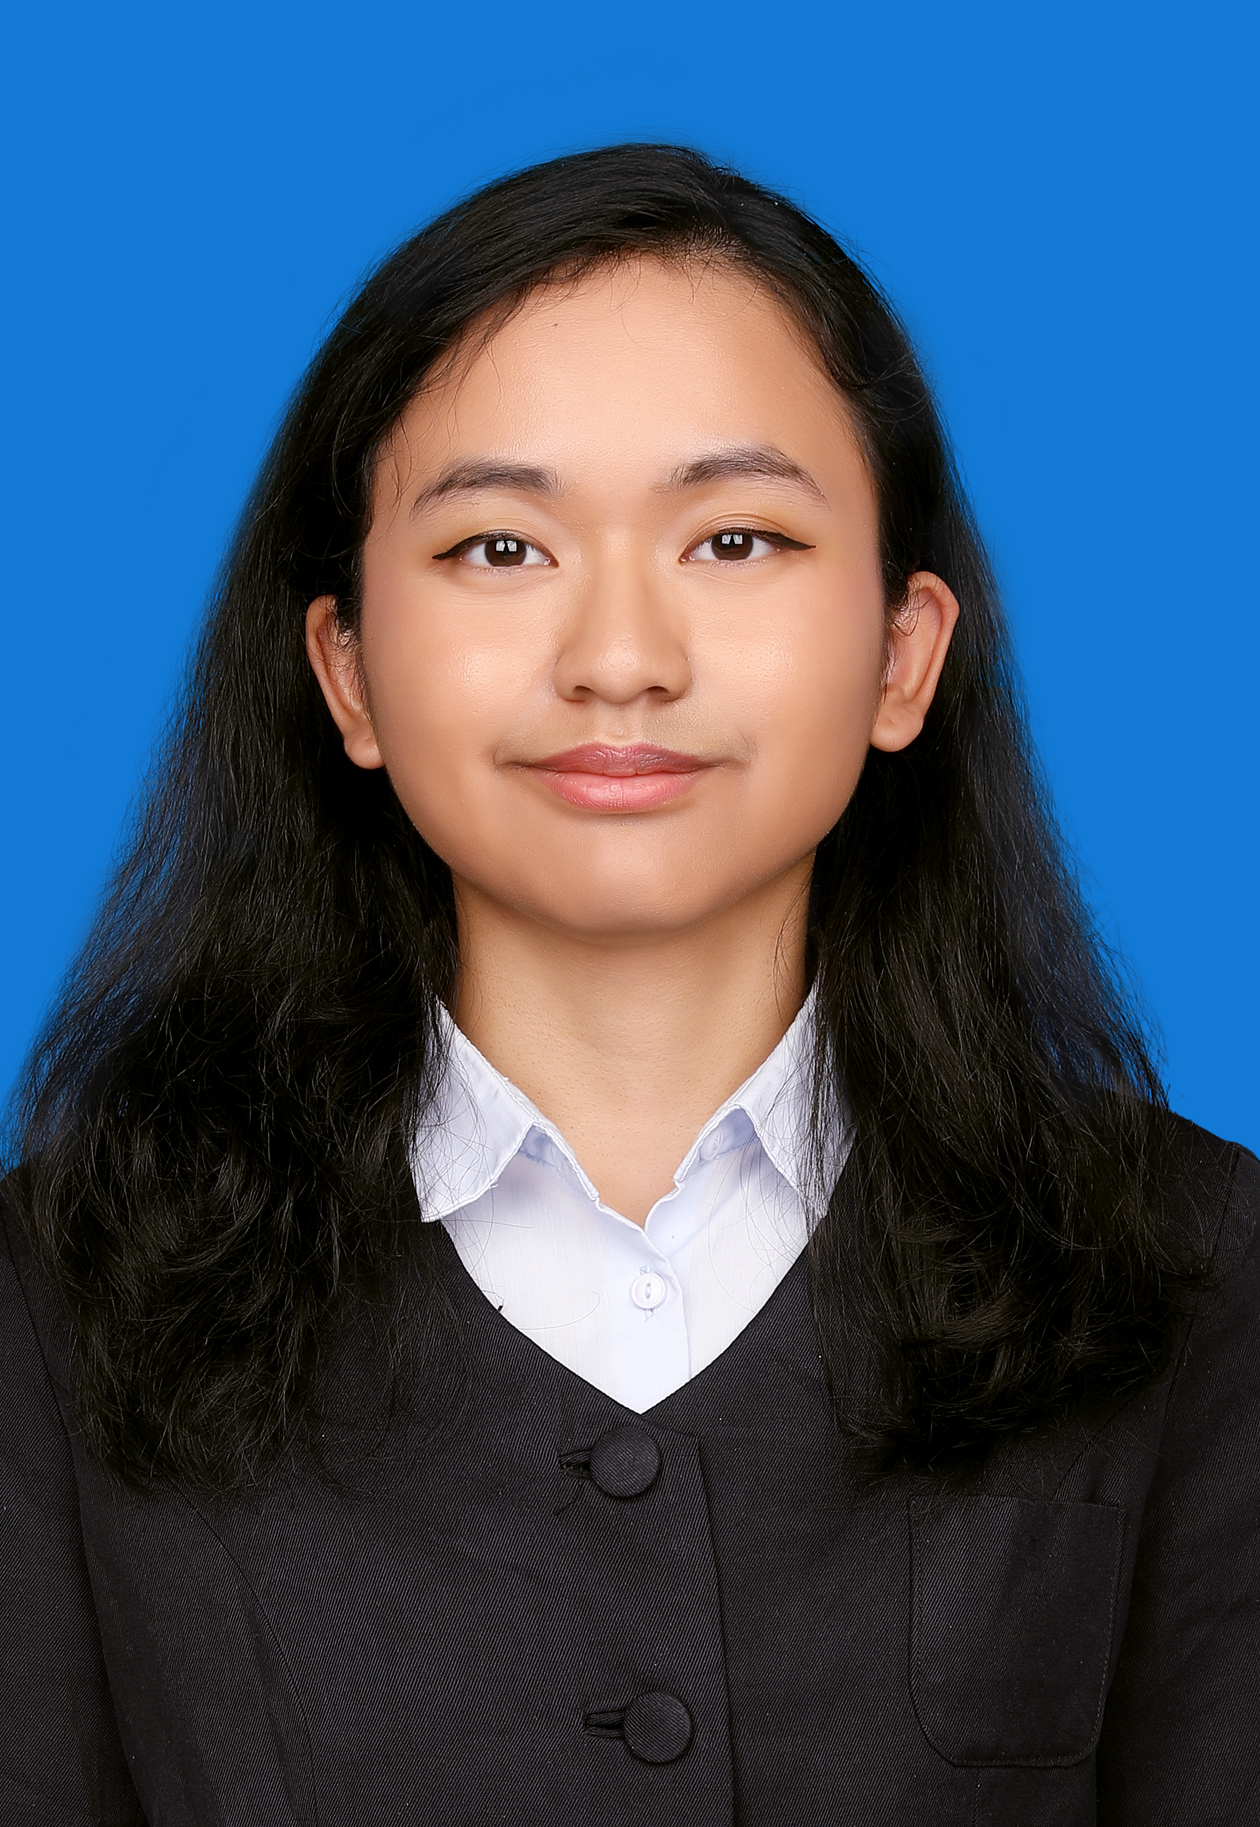
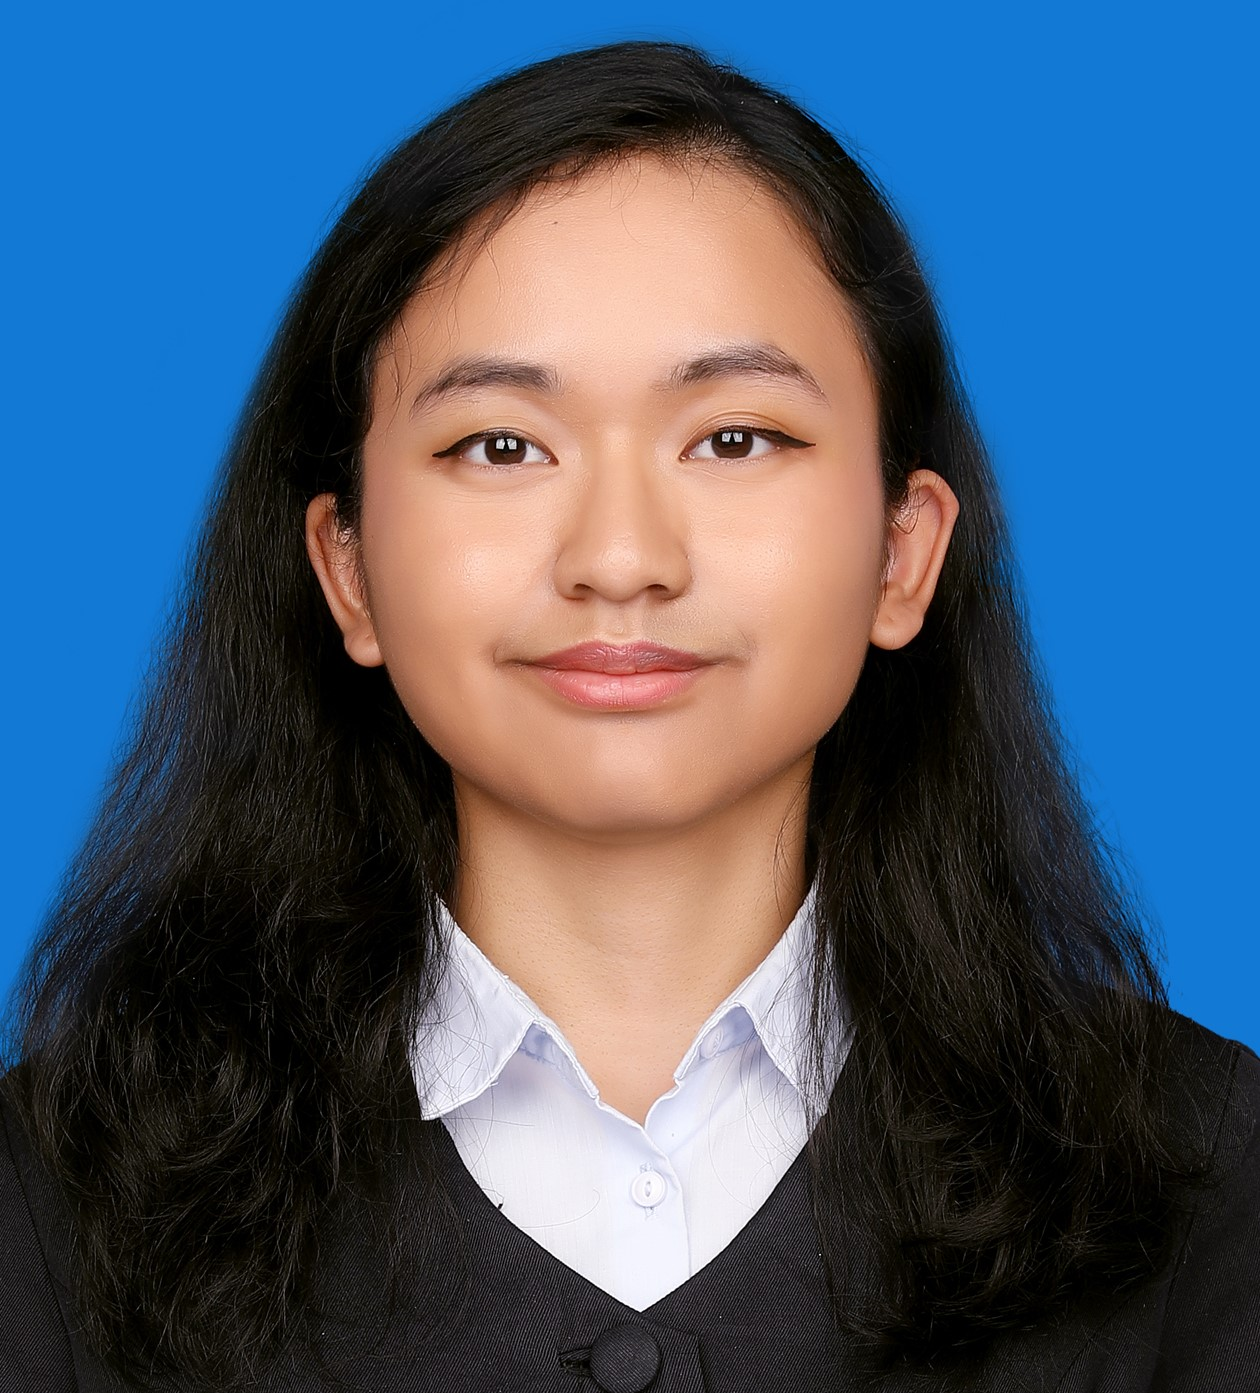
Fixed broken links and changed profile picture

diff --git a/styles.css b/styles.css
@@ -1,3 +1,13 @@
+.noselect {
+    -webkit-touch-callout: none; /* iOS Safari */
+      -webkit-user-select: none; /* Safari */
+       -khtml-user-select: none; /* Konqueror HTML */
+         -moz-user-select: none; /* Old versions of Firefox */
+          -ms-user-select: none; /* Internet Explorer/Edge */
+              user-select: none; /* Non-prefixed version, currently
+                                    supported by Chrome, Edge, Opera and Firefox */
+  }
+
 
 a.nav {
     display: block;
@@ -14,15 +24,6 @@ a:hover {
     color: black;
 }
 
-.noselect {
-    -webkit-touch-callout: none; /* iOS Safari */
-      -webkit-user-select: none; /* Safari */
-       -khtml-user-select: none; /* Konqueror HTML */
-         -moz-user-select: none; /* Old versions of Firefox */
-          -ms-user-select: none; /* Internet Explorer/Edge */
-              user-select: none; /* Non-prefixed version, currently
-                                    supported by Chrome, Edge, Opera and Firefox */
-  }
 
 .tab-pane {
     border-width: 1px;
@@ -39,6 +40,13 @@ a:hover {
 .main-page {
     border-top: 0cm;
     margin-top: 10%;
+}
+
+.profile {
+    width: 15em;
+    border: 3px solid darkgray;
+    -moz-border-radius:50px;
+    -webkit-border-radius: 50px;
 }
 
 .tab-content {
@@ -116,6 +124,7 @@ body {
     font-optical-sizing: auto;
     font-weight: 400;
     background-color: whitesmoke;
+    
 }
 
 

diff --git a/index.html b/index.html
@@ -6,8 +6,9 @@
     <link rel="preconnect" href="https://fonts.googleapis.com">
     <link rel="preconnect" href="https://fonts.gstatic.com" crossorigin>
     <link href="https://fonts.googleapis.com/css2?family=Inter:ital,opsz,wght@0,14..32,100..900;1,14..32,100..900&display=swap" rel="stylesheet">
-    <link rel="stylesheet" href="https://benayu.github.io/benayu/styles.css" />
+    <link rel="stylesheet" href="styles.css" />
     <meta charset="utf-8" />
+    <meta name="viewport" content="width=device-width, initial-scale=1">
     <title>Benayu H. Priyanto</title>
   </head>
   <body class="noselect">
@@ -42,9 +43,8 @@
             <h3>IB MYP Teacher at Sekolah Victory Plus</h3>
             
             <div class="row d-flex">
-
-              <div class="block-content col-4">
-              <img src="./images/portrait.jpg" alt="Portrait of Benayu H Priyanto." style="width: 18rem;">  
+              <div class="block-content col-sm-auto">
+              <img class="profile" src="./images/portrait.jpg" alt="Portrait of Benayu H Priyanto.">  
               </div>
 
 
